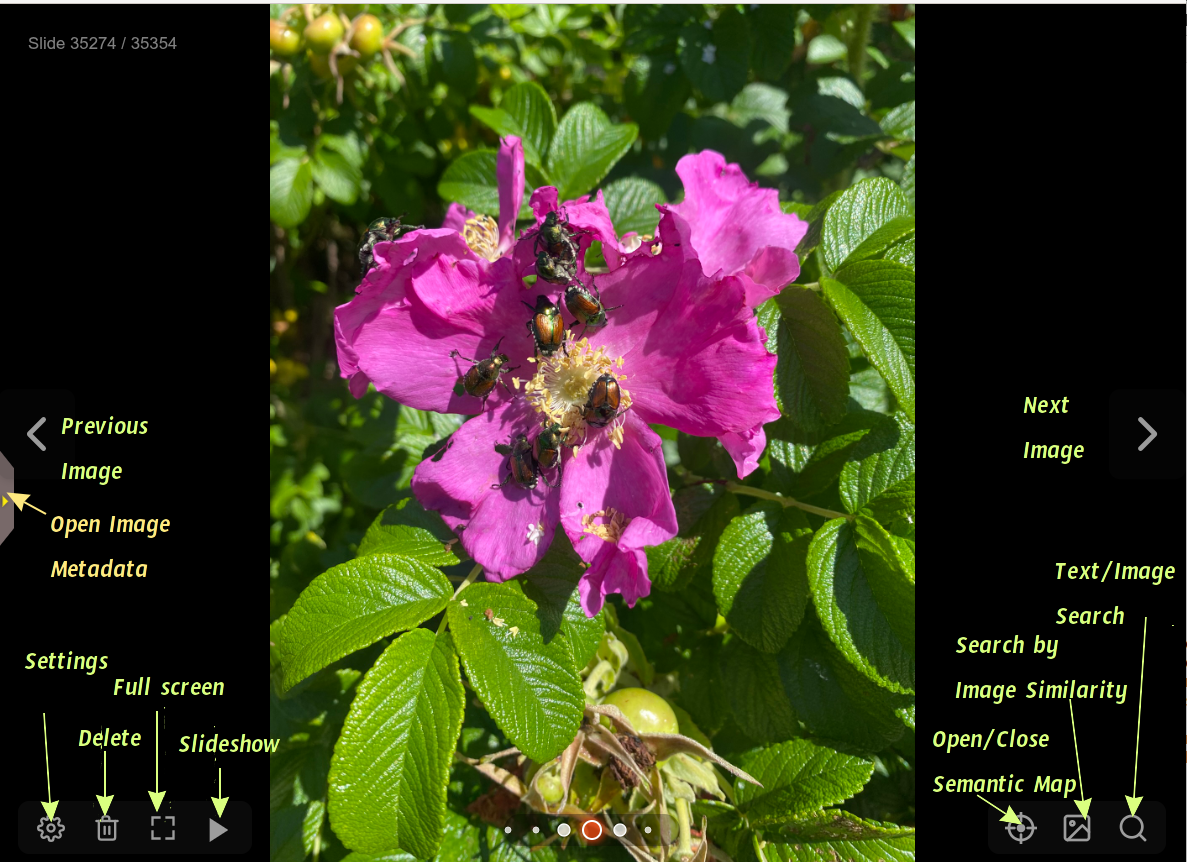
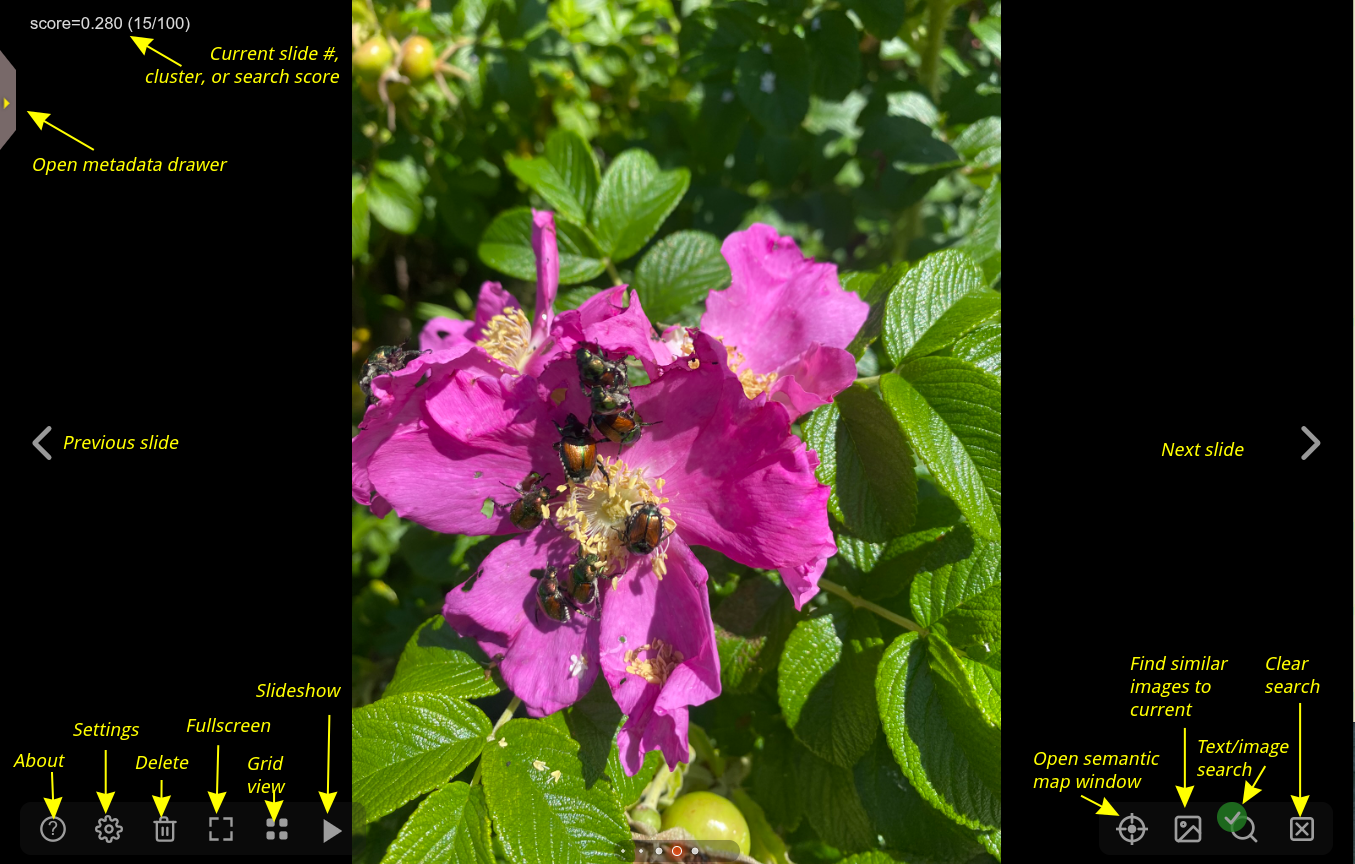
Deployed 3c2cff5 with MkDocs version: 1.6.1

diff --git a/user-guide/basic-usage/index.html b/user-guide/basic-usage/index.html
@@ -463,18 +463,42 @@
 </li>
       
         <li class="md-nav__item">
-  <a href="#browsing-your-collection" class="md-nav__link">
+  <a href="#the-semantic-map" class="md-nav__link">
     <span class="md-ellipsis">
-      Browsing your Collection
+      The Semantic Map
     </span>
   </a>
   
 </li>
       
         <li class="md-nav__item">
-  <a href="#displaying-the-semantic-map" class="md-nav__link">
+  <a href="#the-album-browsing-display" class="md-nav__link">
     <span class="md-ellipsis">
-      Displaying the Semantic Map
+      The Album Browsing Display
+    </span>
+  </a>
+  
+    <nav class="md-nav" aria-label="The Album Browsing Display">
+      <ul class="md-nav__list">
+        
+          <li class="md-nav__item">
+  <a href="#jumping-forward-and-back" class="md-nav__link">
+    <span class="md-ellipsis">
+      Jumping Forward and Back
+    </span>
+  </a>
+  
+</li>
+        
+      </ul>
+    </nav>
+  
+</li>
+      
+        <li class="md-nav__item">
+  <a href="#viewing-a-thumbnail-grid" class="md-nav__link">
+    <span class="md-ellipsis">
+      Viewing a Thumbnail Grid
     </span>
   </a>
   
@@ -814,18 +838,42 @@
 </li>
       
         <li class="md-nav__item">
-  <a href="#browsing-your-collection" class="md-nav__link">
+  <a href="#the-semantic-map" class="md-nav__link">
     <span class="md-ellipsis">
-      Browsing your Collection
+      The Semantic Map
     </span>
   </a>
   
 </li>
       
         <li class="md-nav__item">
-  <a href="#displaying-the-semantic-map" class="md-nav__link">
+  <a href="#the-album-browsing-display" class="md-nav__link">
     <span class="md-ellipsis">
-      Displaying the Semantic Map
+      The Album Browsing Display
+    </span>
+  </a>
+  
+    <nav class="md-nav" aria-label="The Album Browsing Display">
+      <ul class="md-nav__list">
+        
+          <li class="md-nav__item">
+  <a href="#jumping-forward-and-back" class="md-nav__link">
+    <span class="md-ellipsis">
+      Jumping Forward and Back
+    </span>
+  </a>
+  
+</li>
+        
+      </ul>
+    </nav>
+  
+</li>
+      
+        <li class="md-nav__item">
+  <a href="#viewing-a-thumbnail-grid" class="md-nav__link">
+    <span class="md-ellipsis">
+      Viewing a Thumbnail Grid
     </span>
   </a>
   
@@ -874,8 +922,23 @@
 <p>Indexing can take some time. On a system equipped with an NVidia GPU, indexing a collection of ~50,000 images will take about two hours. On a system with CPU only, the process will take overnight. Mac users with hardware accelerated M1/2/3 chips will see performance somewhere in between the two. It is suggested to start with a small collection of photos (1000-2000 images) for your first album in order to test PhotoMapAI and get comfortable with its features.</p>
 <p>Once indexing is complete, the dialogue will close and you can start exploring your collection.</p>
 <p>For more information on adding and modifying albums see <a href="../albums/">Albums</a>.</p>
-<h2 id="browsing-your-collection">Browsing your Collection</h2>
-<p>The album browsing interface is shown below. Hover over the image to see the key to the various buttons and controls for album browsing:</p>
+<h2 id="the-semantic-map">The Semantic Map</h2>
+<p>When you open an album for the first time, it will show the <a href="../semantic-map/">Semantic Map</a> view, a scatterplot of all the photos in your album, clustered and colored by similarity.</p>
+<p><img src="../../img/photomap_semantic_map_1.png" width="480" alt="Semantic Map" class="img-hover-zoom"></p>
+<p>The initial view shows the entire collection, with a yellow target (far left side of the screenshot) marking the current photo on display. Use the mouse and scrollwheel to zoom in and out of the map and pan around. If you zoom in enough, you will see individual dots for each photo. The largest clusters are labeled with landmark images shown in the screenshot above as map markers pointing to major clusters. Hover the mouse over areas of interest to see larger thumbnail previews of the corresponding images. You can control whether landmarks and/or hover thumbnails are displayed by selecting those options in the checkboxes at the bottom of the screen. </p>
+<p>Click on a dot to load that photo into the <a href="#the-album-browsing-display">album browsing display</a>. This will also highlight the cluster that you clicked in and load the contents of the cluster into the search results. You can then use the navigation buttons or the <a href="#viewing-a-thumbnail-grid">grid view</a> to scroll through the images in the selected cluster.</p>
+<p>If you don't see anything, or if the colors are very faint, this means that there were insufficient images in the album to cluster well. You can fix this by increasing the cluster strength. Go to the <em>Cluster Strength</em> field and increase its value until you are satisfied with the cluster number and size.</p>
+<p>If you hover over the top of the map, additional navigation controls appear for zooming in and out, panning, resetting to the default scale, and downloading the map as a PNG image.</p>
+<p><img src="../../img/photomap_semantic_map_2.png" width="480" alt="Semantic Map Nav Controls" class="img-hover-zoom"></p>
+<p>You can control the size and position of the semantic map. You can have it appear in fullscreen mode that covers the full size image display beneath it, or you can set it to be a semi-transparent window that floats on top of the full size image. See <a href="../semantic-map/">Semantic Map</a> for more details.</p>
+<p>You can completely close the semantic map at any time by clicking its close box or the <em>Target</em> (⊙) icon at the bottom of the screen (see the screenshot below). To reopen the map, click the <em>Target</em> icon again.</p>
+<div class="photomap-overlay-container">
+  <img src="../../img/photomap_basic_usage_3_base.png" style="width: 320px" class="photomap-base" alt="Base image">
+  <img src="../../img/photomap_basic_usage_3_overlay.png" style="width: 320px" class="photomap-overlay" alt="Overlay image">
+</div>
+
+<h2 id="the-album-browsing-display">The Album Browsing Display</h2>
+<p>If you click on an image in the semantic map, or just close the window, you will see the album browsing display shown below. Hover over the screenshot to see the key to the various buttons and controls for album browsing:</p>
 <div class="photomap-overlay-container">
   <img src="../../img/photomap_basic_usage_1_base.png" width="480" class="photomap-base" alt="Base image">
   <img src="../../img/photomap_basic_usage_1_overlay.png" width="480" class="photomap-overlay" alt="Overlay image">
@@ -883,41 +946,41 @@
 
 <p>Going from left to right:</p>
 <ul>
-<li>The <em>Next Image</em> and <em>Previous Image</em> buttons advance to the next or previous photographs in the album.</li>
+<li>The <em>About</em> button shows the current version of the software and links to its  home page.
+_ The <em>Previous slide</em> and <em>Next slide</em> buttons advance the images in the album or current search.</li>
 <li>The <em>Gear</em> button opens up a dialogue that lets you adjust the behavior and appearance of PhotoMapAI.</li>
 <li>The <em>Trash</em> icon permanently deletes the current photo from the album and removes the disk file (after confirmation).</li>
 <li>The <em>Fullscreen</em> button puts PhotoMapAI into fullscreen mode and hides most of the control elements.</li>
+<li>The <em>Grid</em> icon toggles between showing one image at a time to showing a screen of thumbnails.</li>
 <li>The <em>Play/Pause</em> button starts and stops a slideshow in which the photos autoadvance after a user-adjustable interval.</li>
 <li>The <em>Target</em> icon opens and closes the <a href="../semantic-map/">semantic map</a>.</li>
 <li>The <em>Landscape</em> icon initiates a search for images similar to the one currently displayed.</li>
-<li>The <em>Magnifier</em> icon opens up a search dialogue that lets you search by image similarity and/or a text description of image content.</li>
+<li>The <em>Magnifier</em> button opens up a search dialogue that lets you search by image similarity and/or a text description of image content.</li>
+<li>The "Clear search* button clears any search that is currently active and returns to album browsing mode.</li>
 </ul>
-<p>Finally, the inconspicuous tab with the yellow arrow on the left margin of the window opens a drawer that displays the image's EXIF date, including the date the photo was taken, GPS information (if available), and camera information.</p>
-<p>Hover the mouse near the top of the window to reveal a gallery view and a slider control that will let you seek forward and backward among the images. If no search is active, the slider shows the images sorted by their date. If an image or text similarity search is active, the slider changes to indicate the match score (higher numbers are better matches). If a cluster was selected with the semantic map, then the slider and gallery change to indicate the contents of the cluster.</p>
+<p>Finally, the yellow tab with the black arrow on the left margin of the window opens a drawer that displays the image's EXIF date, including the date the photo was taken, GPS information (if available), and camera information. Once you open the drawer up, you can drag it around by clicking on any of its edges. Click the black arrow again to return it to its home location and close it.</p>
+<h3 id="jumping-forward-and-back">Jumping Forward and Back</h3>
+<p>Hover the mouse near the top of the window to reveal a slider control that will let you seek forward and backward among the images. If no search is active, the slider shows the images sorted by their date. If an image or text similarity search is active, the slider changes to indicate the match score (higher numbers are better matches). If a cluster was selected with the semantic map, then the slider changes to indicate the slide numbers within the cluster.</p>
 <p><img src="../../img/photomap_basic_usage_2.png" width="480" alt="Seek Slider" class="img-hover-zoom"></p>
 <p>You can navigate through your album, enter and exit fullscreen, and start and stop the slideshow with a variety of keystrokes and gestures on touch-enabled devices. See <a href="../keyboard-shortcuts/">Keyboard Shortcuts</a> for details.</p>
-<h2 id="displaying-the-semantic-map">Displaying the Semantic Map</h2>
-<p>Click the ⊙ (target) icon in the search panel on the bottom right to open the <a href="../semantic-map/">Semantic Map</a>:</p>
-<div class="photomap-overlay-container">
-  <img src="../../img/photomap_basic_usage_3_base.png" style="width: 320px" class="photomap-base" alt="Base image">
-  <img src="../../img/photomap_basic_usage_3_overlay.png" style="width: 320px" class="photomap-overlay" alt="Overlay image">
-</div>
-
-<p>This will open up a scatterplot showing all the photos in your album, clustered and colored by similarity.</p>
-<p><img src="../../img/photomap_semantic_map_1.png" width="480" alt="Semantic Map" class="img-hover-zoom"></p>
-<p>The initial view shows the entire collection, with a yellow target (far left side of the screenshot) marking the current photo on display. Use the mouse and scrollwheel to zoom in and out of the map and pan around. If you zoom in enough, you will see individual dots for each photo. The largest clusters are labeled with landmark images shown in the screenshot above as map markers pointing to major clusters. Hover the mouse over areas of interest to see larger thumbnail previews of the corresponding images. You can control whether landmarks and/or hover thumbnails are displayed by selecting those options in the checkboxes at the bottom of the screen. </p>
-<p>Click on a dot to load that photo into the main display, highlight the cluster that you clicked in, and load the contents of the cluster into the search results. You can then use the navigation buttons (or the slideshow) to scroll through the images in the selected cluster.</p>
-<p>If you don't see anything, or if the colors are very faint, this means that there were insufficient images in the album to cluster well. You can fix this by increasing the cluster strength. Go to the <em>Cluster Strength</em> field and increase its value until you are satisfied with the cluster number and size.</p>
-<p>If you hover over the top of the map, additional navigation controls appear for zooming in and out, panning, resetting to the default scale, and downloading the map as a PNG image.</p>
-<p><img src="../../img/photomap_semantic_map_2.png" width="480" alt="Semantic Map Nav Controls" class="img-hover-zoom"></p>
-<p>You can control the size and position of the semantic map. You can have it appear in fullscreen mode that covers the full size image display beneath it, or you can set it to be a semi-transparent window that floats on top of the full size image. See <a href="../semantic-map/">Semantic Map</a> for more details.</p>
+<h2 id="viewing-a-thumbnail-grid">Viewing a Thumbnail Grid</h2>
+<p>At any time you can click on the <em>Grid</em> icon to shift from single-slide mode to grid mode:</p>
+<p><img src="../../img/photomap_basic_usage_gridmode.png" width="480" alt="Seek Slider" class="img-hover-zoom"></p>
+<p>In grid mode, the arrow buttons move forward and back one screen's worth of thumbnails. Click on a thumbnail to select its image. When selected, the image's metadata will be displayed in the metadata drawer, and the semantic map will update to show the position of the current image. Double-click on a thumbnail in order to open the image at full resolution in browse mode.</p>
+<p>You may also advance the grid using the slider control that appears when you hover near the top of the window. </p>
 <h2 id="changing-settings">Changing Settings</h2>
 <p>The Gear icon opens the settings dialogue, which allows you to adjust the appearance and behavior of PhotoMapAI:</p>
 <p><img src="../../img/photomap_settings.png" width="480" alt="PhotoMapAI Settings Dialogue" class="img-hover-zoom"></p>
 <ul>
-<li><strong>Image Change Interval</strong> -- When the slideshow is running, this controls how long each image will be displayed, in seconds.</li>
-<li><strong>Image Browse Order</strong> -- When the slideshow is running, or when you are browsing the album without an active search, this controls the order in which photos are displayed. "Random" will present the images in shuffled order, while "Chronological" will show them in order from oldest to newest.</li>
-<li><strong>Max Images in History</strong> -- PhotoMapAI keeps a small number of recently-viewed photos in memory. The others are swapped in and out to disk. This value controls how many images are kept in memory at once. Reduce the size if you are having memory problems or the application seems to be slowing down.</li>
+<li>
+<p><strong>Image Change Interval</strong> -- When the slideshow is running, this controls how long each image will be displayed, in seconds.</p>
+</li>
+<li>
+<p><strong>Image Browse Order</strong> -- When the slideshow is running, or when you are browsing the album without an active search, this controls the order in which photos are displayed. "Random" will present the images in shuffled order, while "Chronological" will show them in order from oldest to newest.</p>
+</li>
+<li><strong>Grid thumbnail size factor</strong> -- This allows you to change the size of the image thumbnails by scaling them from a maximum of 2.0 (double default size) to a minimum of 0.5 (half default size). Be aware that the grid takes longer to load with small thumbnails.</li>
+<li><strong>Show Button Labels</strong> -- Disabling this checkbox allows you to turn off the labels on the row of clickable icons at the bottom of the screen for a more minimalist experience.</li>
+<li><strong>Confirm before deleting images</strong> -- Disabling this checkbox stops the Trash Can icon from asking for confirmation before permanently deleting the current image from disk.</li>
 <li><strong>LocationIQ Map API Key</strong> -- This optional API key lets PhotoMapAI display thumbnail maps and named locations for photos that contain GPS geolocation information. If you wish to enable this feature, get a key for free from <a href="http://locationiq.com/">LocationIQ</a> and paste it into the field. If not present, PhotoMapAI will display the longitude and latitude of the photo, but not the map or place name.</li>
 <li><strong>Album</strong> -- This pulldown menu lists all the albums you have configured and allows you to switch among them. Note that when you switch albums, the settings dialogue will close immediately and the window will display the first photo from the selected albums.</li>
 <li><strong>Manage Albums</strong> -- This green button will open the <a href="../albums/">Album Manager</a>, where you can create, edit and delete albums.</li>

diff --git a/developer/frontend/index.html b/developer/frontend/index.html
@@ -902,8 +902,16 @@
 <p>The frontend code is organized into the following main components:</p>
 <ul>
 <li>
-<p><strong>Slideshow &amp; Gallery (<code>swiper.js</code>, <code>seek-slider.js</code>)</strong><br />
+<p><strong>Image Browsing (<code>swiper.js</code>)</strong><br />
   Handles image navigation, transitions, and keyboard/touch controls.</p>
+</li>
+<li>
+<p><strong>Image Grid (<code>grid-view.js</code>)</strong>
+  The image grid display.</p>
+</li>
+<li>
+<p><strong>Random Seeking (<code>seekslider.js</code>)</strong>
+  Slider control that allows the user to seek to arbitrary positions within album or search results.</p>
 </li>
 <li>
 <p><strong>Metadata Overlay (<code>overlay.js</code>)</strong><br />
@@ -933,6 +941,10 @@
 <p><strong>Stylesheets (<code>slides.css</code>)</strong><br />
   Provides base styles, responsive layouts, and theme customization.</p>
 </li>
+<li>
+<p><strong>State Tracking (<code>state.js</code>, <code>slide-state.js</code>)</strong>
+  Tracking of the current image and search results (<code>slide-state.js</code>), and all other stateful variables (<code>state.js</code>)</p>
+</li>
 </ul>
 <hr />
 <h2 id="key-technologies">Key Technologies</h2>
@@ -958,6 +970,16 @@
 <p><strong>Rendering</strong><br />
    The UI updates dynamically based on backend responses, displaying images, overlays, search results, and visualizations.</p>
 </li>
+<li>
+<p><strong>Event Passing</strong>
+  A series of custom events couple user actions to changes in the user interface. Major events are:</p>
+</li>
+<li><code>albumChanged</code> -- The current album has changed.</li>
+<li><code>slideChanged</code> -- The currently selected slide (image) has changed.</li>
+<li><code>searchResultsChanged</code> -- The list of search results (including the selected umap cluster) has changed.</li>
+<li><code>seekToSlideIndex</code> -- The user wishes to jump to an arbitrary slide in the album or search results.</li>
+<li><code>swiperModeChanged</code> -- The user wishes to change from browse mode to grid mode or vice-versa.</li>
+<li><code>settingsUpdated</code> -- One or more settings has been changed.</li>
 </ol>
 <hr />
 <h2 id="extending-the-frontend">Extending the Frontend</h2>
@@ -971,8 +993,9 @@
 <h2 id="file-locations">File Locations</h2>
 <ul>
 <li><strong>JavaScript:</strong> <code>photomap/frontend/static/javascript/</code></li>
-<li><strong>CSS:</strong> <code>photomap/frontend/static/</code></li>
-<li><strong>HTML Templates:</strong> <code>photomap/frontend/templates/</code></li>
+<li><strong>CSS:</strong> <code>photomap/frontend/static/css</code></li>
+<li><strong>HTML Templates:</strong> <code>photomap/frontend/static/templates/</code></li>
+<li>Note that most of the HTML templates are in a subdirectory called <code>modules</code>.</li>
 <li><strong>Documentation:</strong> <code>docs/developer/frontend.md</code></li>
 </ul>
 <hr />
